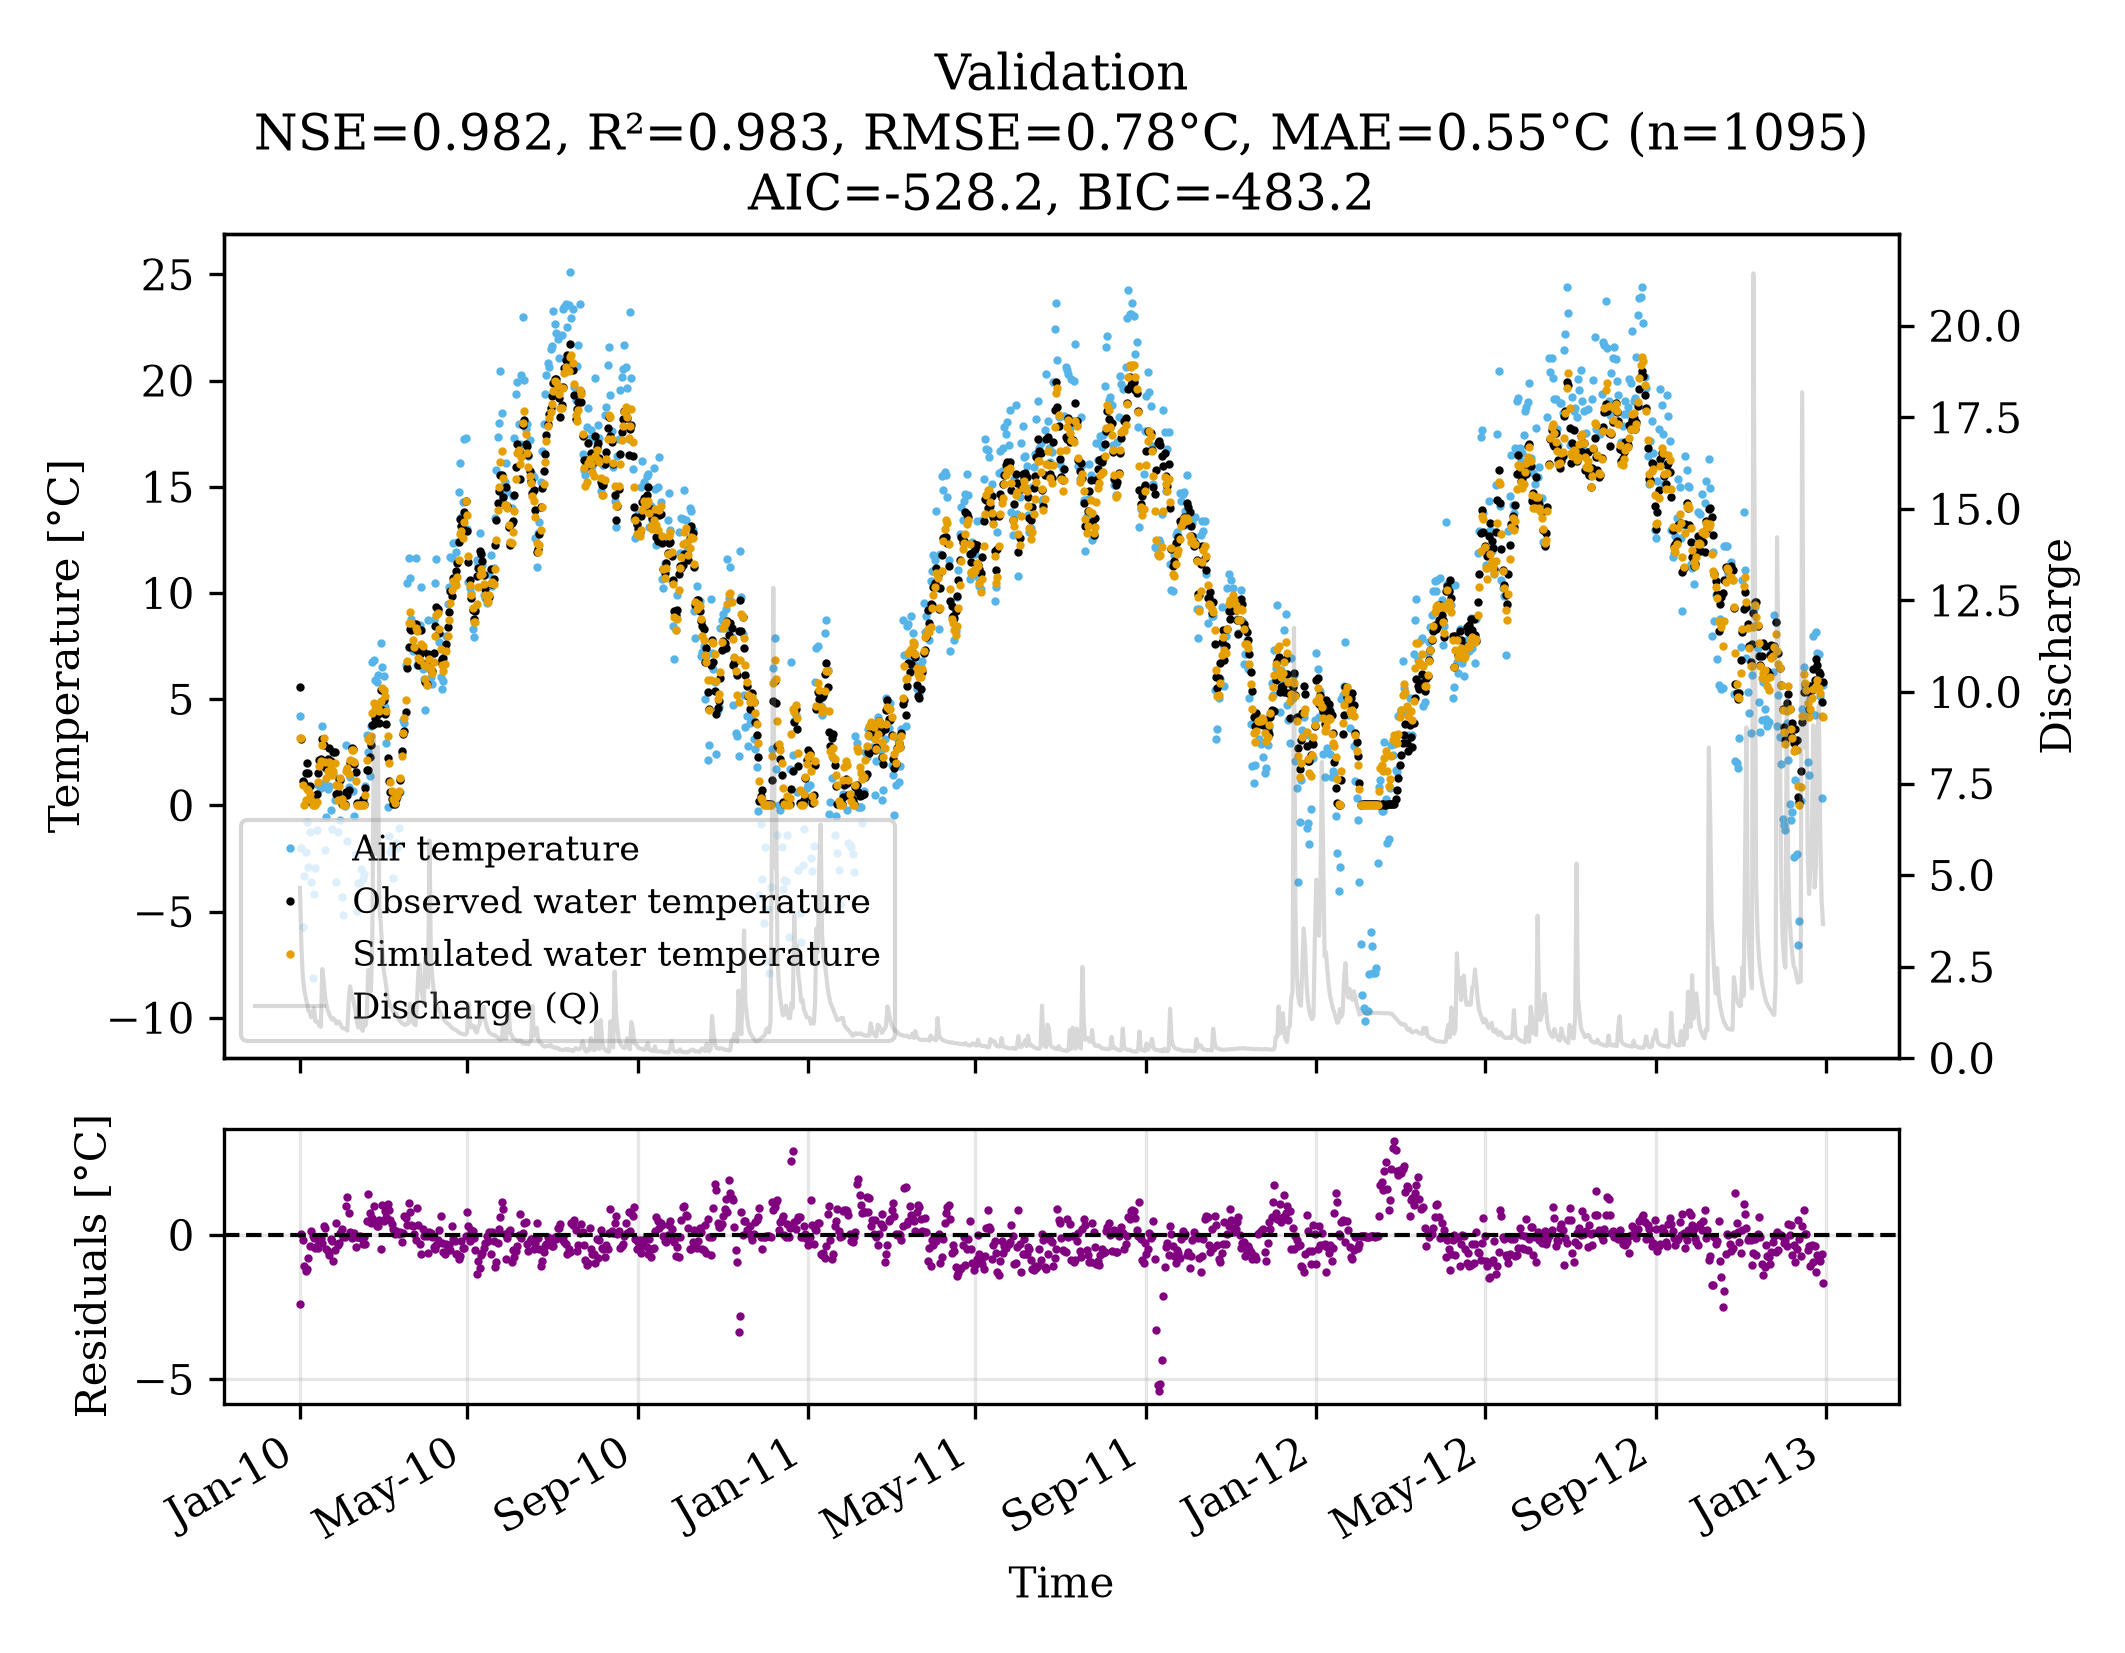
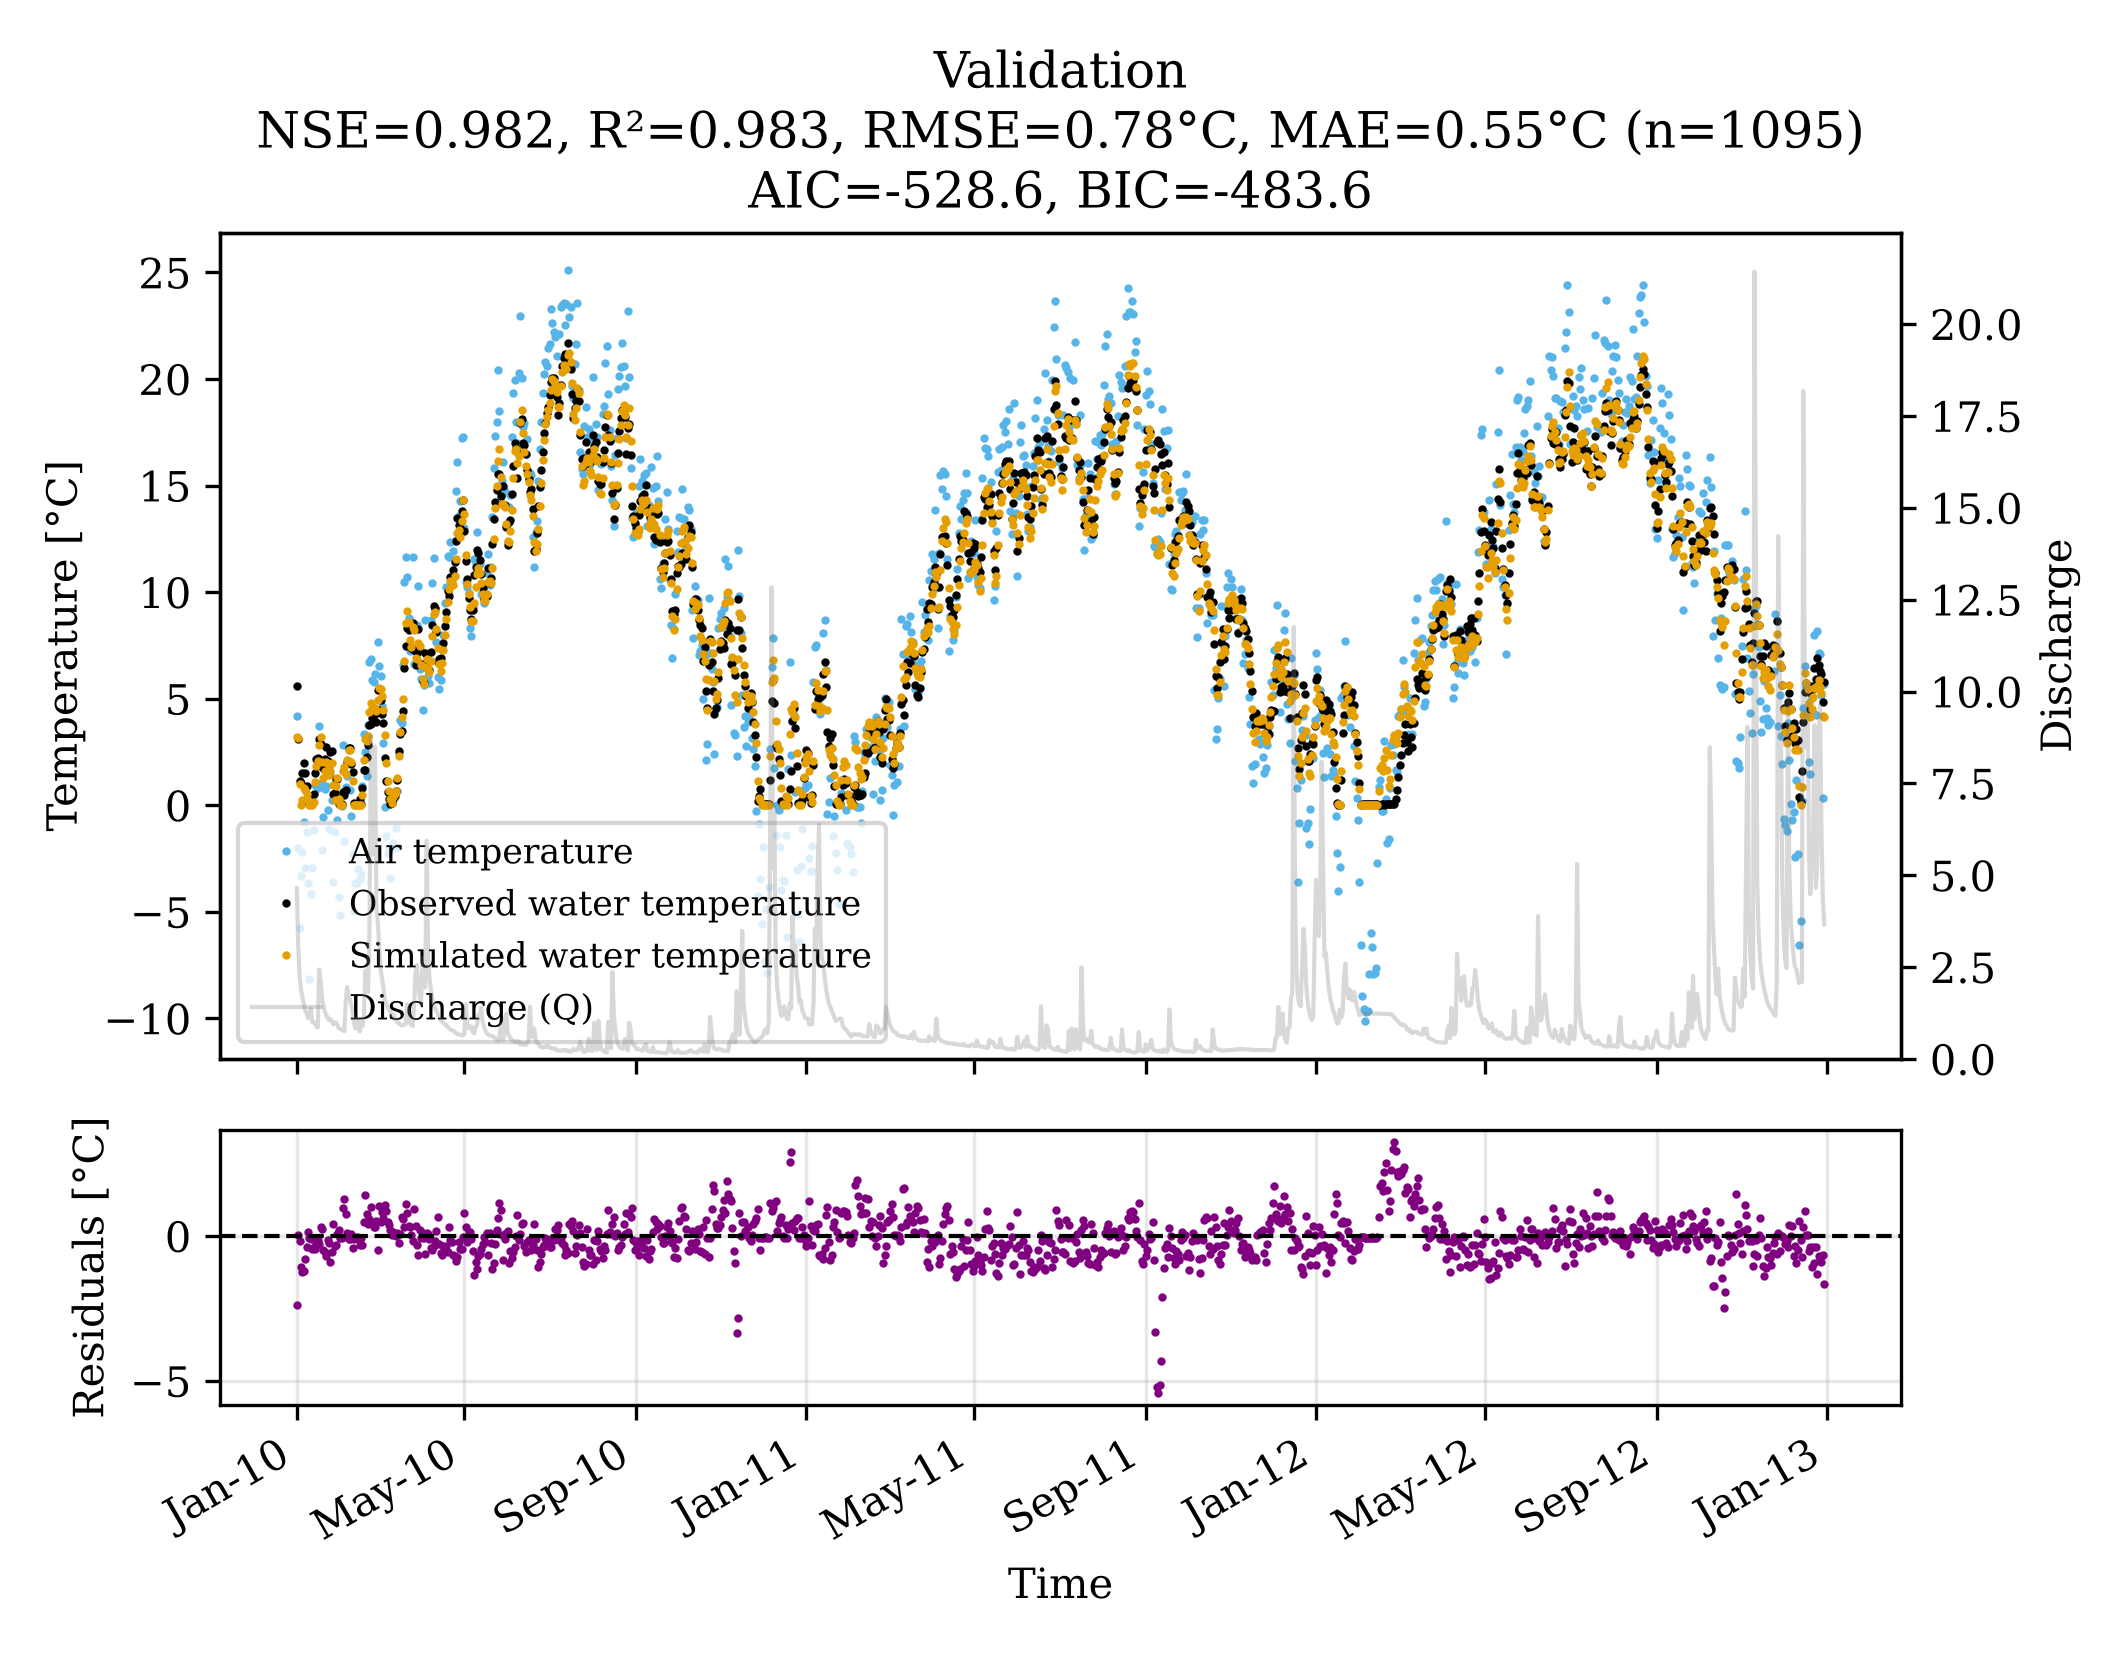
Examples 01 and 02 rerun on 0.5.1: update figures and quoted numbers
Claude-Session: https://claude.ai/code/session_011cntwns3xnAFTLc6o2maxn

diff --git a/examples/02_uncertainty/README.md b/examples/02_uncertainty/README.md
@@ -50,10 +50,10 @@ block. After the calibration, the sampler runs in blocks of 1,000 steps until
 its results are stable. Then it reports:
 
 ```
-  6000 steps: max autocorrelation time 35.4, max split-Rhat 1.0077
+  6000 steps: max autocorrelation time 34.9, max split-Rhat 1.0090
 MCMC converged after 6000 steps (at least 50 x the autocorrelation time, split-Rhat below 1.01).
 ...
-Interval check: 91.0% of 2907 observed days lie inside the 90% prediction interval.
+Interval check: 91.1% of 2907 observed days lie inside the 90% prediction interval.
 ```
 
 The two numbers say whether the sampler has run long enough. The
@@ -95,10 +95,10 @@ pyair2stream --config examples/02_uncertainty/predict.yaml
 2010–2012 have measurements, so it also reports how many fall inside:
 
 ```
-Interval check: 89.5% of 1095 observed days lie inside the 90% prediction interval.
+Interval check: 89.1% of 1095 observed days lie inside the 90% prediction interval.
 ```
 
-That is close to 90%, slightly below. The validation suite found 85–89% on
+That is close to 90%, slightly below. The validation suite found 85–90% on
 three Swiss rivers ([V5](../../validation/REPORT.md#v5)). The model's errors
 are somewhat larger in years it has not seen. So the intervals are slightly
 too narrow for new years.
@@ -117,8 +117,8 @@ Keep the defaults. In short:
   day, the alternative `"iid"` (independent errors) gives about the same
   interval. But for anything over several days (7-day means, a run of days
   above a limit), `"iid"` gives intervals that are far too narrow. On the Swiss
-  rivers, its 90% intervals for 7-day means held only 39–62% of the time,
-  against 89–94% with `"ar1"` ([V5](../../validation/REPORT.md#v5)).
+  rivers, its 90% intervals for 7-day means held only 39–59% of the time,
+  against 87–93% with `"ar1"` ([V5](../../validation/REPORT.md#v5)).
 - **`likelihood`** is left at its default, `"least_squares"`. It keeps the band
   centred on the best fit. The alternative, `"exact"`, centred this example's
   band about 0.04 °C cooler. It also gave lower probabilities of exceeding a
@@ -148,9 +148,9 @@ Keep the defaults. In short:
 
 `output/calibration/parameter_significance_DE-MCMC_Mentue.csv` lists each
 parameter's mean and 90% range. The ranges lie around the best fit in
-`calibration_metadata.json`, but not always evenly. For example, `a5` is 2.54
-in the best fit and 3.01 on average in the chain, with a 90% range of 2.02 to
-4.24.
+`calibration_metadata.json`, but not always evenly. For example, `a5` is 2.55
+in the best fit and 3.02 on average in the chain, with a 90% range of 2.03 to
+4.25.
 
 In a test with known parameters, such 90% ranges, made with the default
 settings used here, contained the true value at least 90% of the time

diff --git a/examples/01_quickstart/README.md b/examples/01_quickstart/README.md
@@ -19,9 +19,9 @@ pyair2stream --config examples/01_quickstart/config.yaml
 It takes under a minute. Near the end, the console shows:
 
 ```
-DE Finished. Best internal negated objective: -0.987657
+DE Finished. Best internal negated objective: -0.987594
 L-BFGS-B Finished. Best internal negated objective: -0.987927
-Efficiency Index in calibration 0.9879265649786034
+Efficiency Index in calibration 0.9879266370887719
 Consistency check passed.
 ```
 
